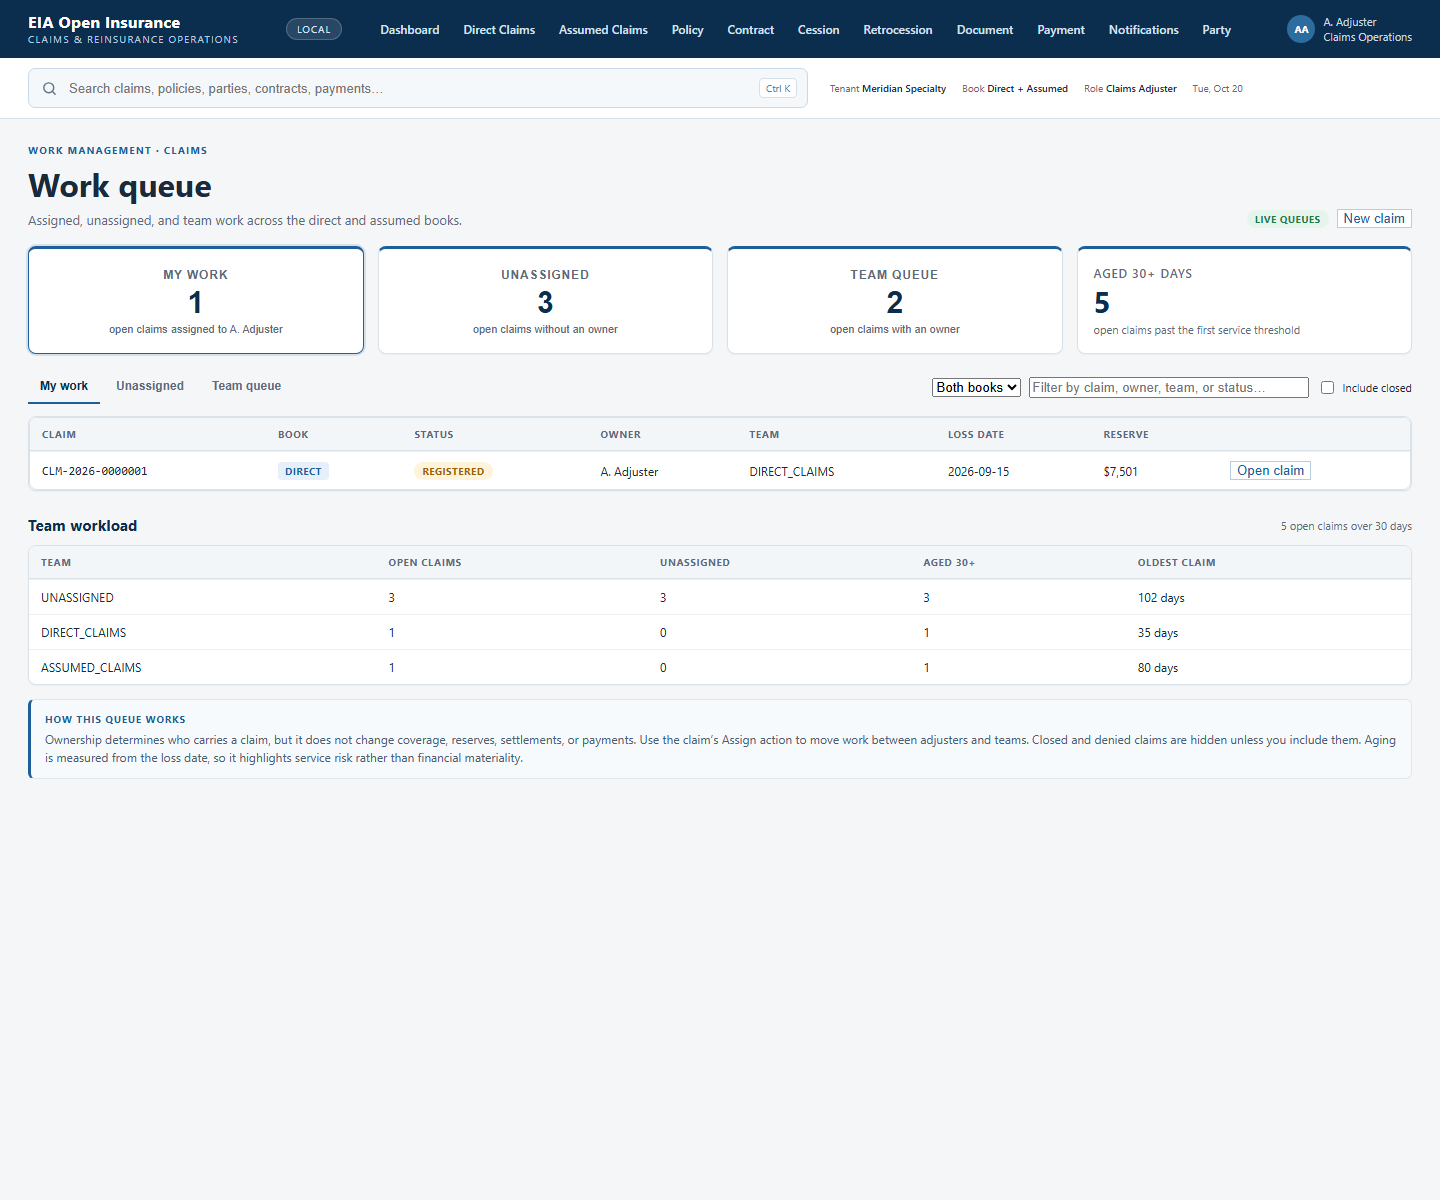
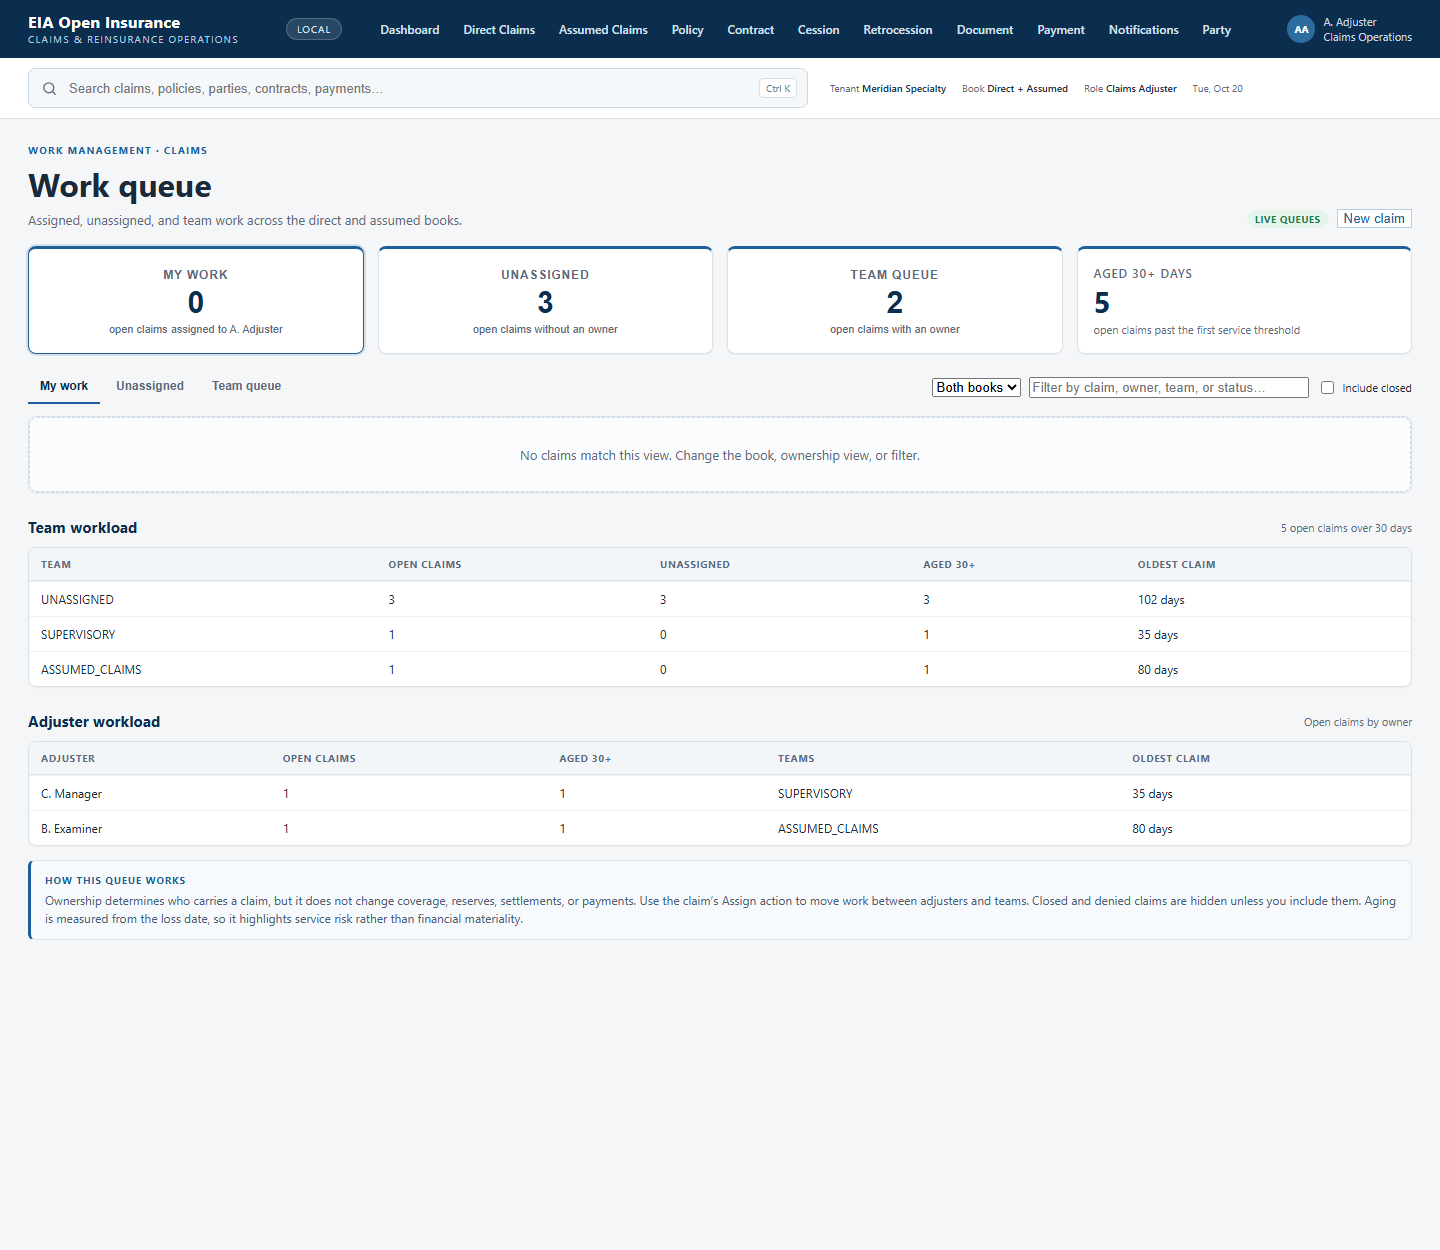
docs: record directory and adjuster workload

diff --git a/docs/EVIDENCE.md b/docs/EVIDENCE.md
@@ -11,7 +11,7 @@ exit code: 0
 ```
 
 - 37 repositories checked.
-- 198 JUnit suites, **1,726 tests, 0 failures/errors**.
+- 199 JUnit suites, **1,732 tests, 0 failures/errors**.
 - 11 Playwright suites: 10 vertical workbenches plus the shell.
 
 ## Running stack
@@ -132,7 +132,7 @@ exit code: 0
 ```
 
 - 37 repositories checked.
-- 198 JUnit suites, **1,726 tests, 0 failures**.
+- 199 JUnit suites, **1,732 tests, 0 failures**.
 - 12 Playwright suites, including the opt-in live all-vertical suite.
 - Kubernetes namespace `eia-local`: **37/37 pods Ready**.
 - Gateway smoke: **10/10 vertical APIs**.
@@ -288,3 +288,11 @@ exit code: 0
 - Document facts include type/classification/retention/link; notifications include channel/recipient/type; party includes type/status/name.
 - Live assumed claim returned 5 events: registered, task created/completed, task created, assigned.
 - Full matrix: 198 suites, 1,726 tests; contracts 9,865 checks; 180 events; live 17/17.
+
+## Round 21: people directory and workload
+
+- Gateway exposes a public `/api/v1/directory` with four adjusters and six teams.
+- Direct/Assumed assignment uses directory people and team routing, with free-text/static fallback if unavailable.
+- Work queue adds adjuster workload: open, aged, teams, oldest claim.
+- Live directory returned 4 people/6 teams; C. Manager + SUPERVISORY assignment succeeded.
+- Full matrix: 199 suites, 1,732 tests; contracts 9,865 checks; 180 events; live 17/17.

diff --git a/docs/KUBERNETES_EVIDENCE.md b/docs/KUBERNETES_EVIDENCE.md
@@ -374,3 +374,18 @@ Live `CLM-2026-0000001` returned 8 processed events.
 All ten verticals and Party now show an event-derived Activity timeline. The assumed claim example shows registered, task created/completed, a second task created, and assignment events with status, version, actor, task, and reserve facts.
 
 The timeline is card-local, so an unavailable inbox never blocks the business record.
+
+## People directory and adjuster workload
+
+![Directory assignment](images/directory-assignment.png)
+
+`GET /api/v1/directory` returns 4 adjusters and 6 teams. Claim assignment selects a real person, filters teams by that person, and submits display name + team code.
+
+The work queue shows adjuster workload:
+
+- open claims
+- aged 30+
+- teams
+- oldest claim
+
+Live: `C. Manager — CLAIMS_MANAGER` assigned to `SUPERVISORY` on CLM-2026-0000001.

diff --git a/docs/PROGRESS.md b/docs/PROGRESS.md
@@ -151,3 +151,10 @@
 
 - Activity timelines on all ten verticals and Party.
 - Full matrix 198 suites, 1,726 tests; contracts 9,865 checks; live 17/17.
+
+## Round 21: directory and capacity
+
+- Public people/team directory.
+- Directory-backed assignment in both claims books.
+- Adjuster workload in the work queue.
+- 199 suites, 1,732 tests; live 17/17.
